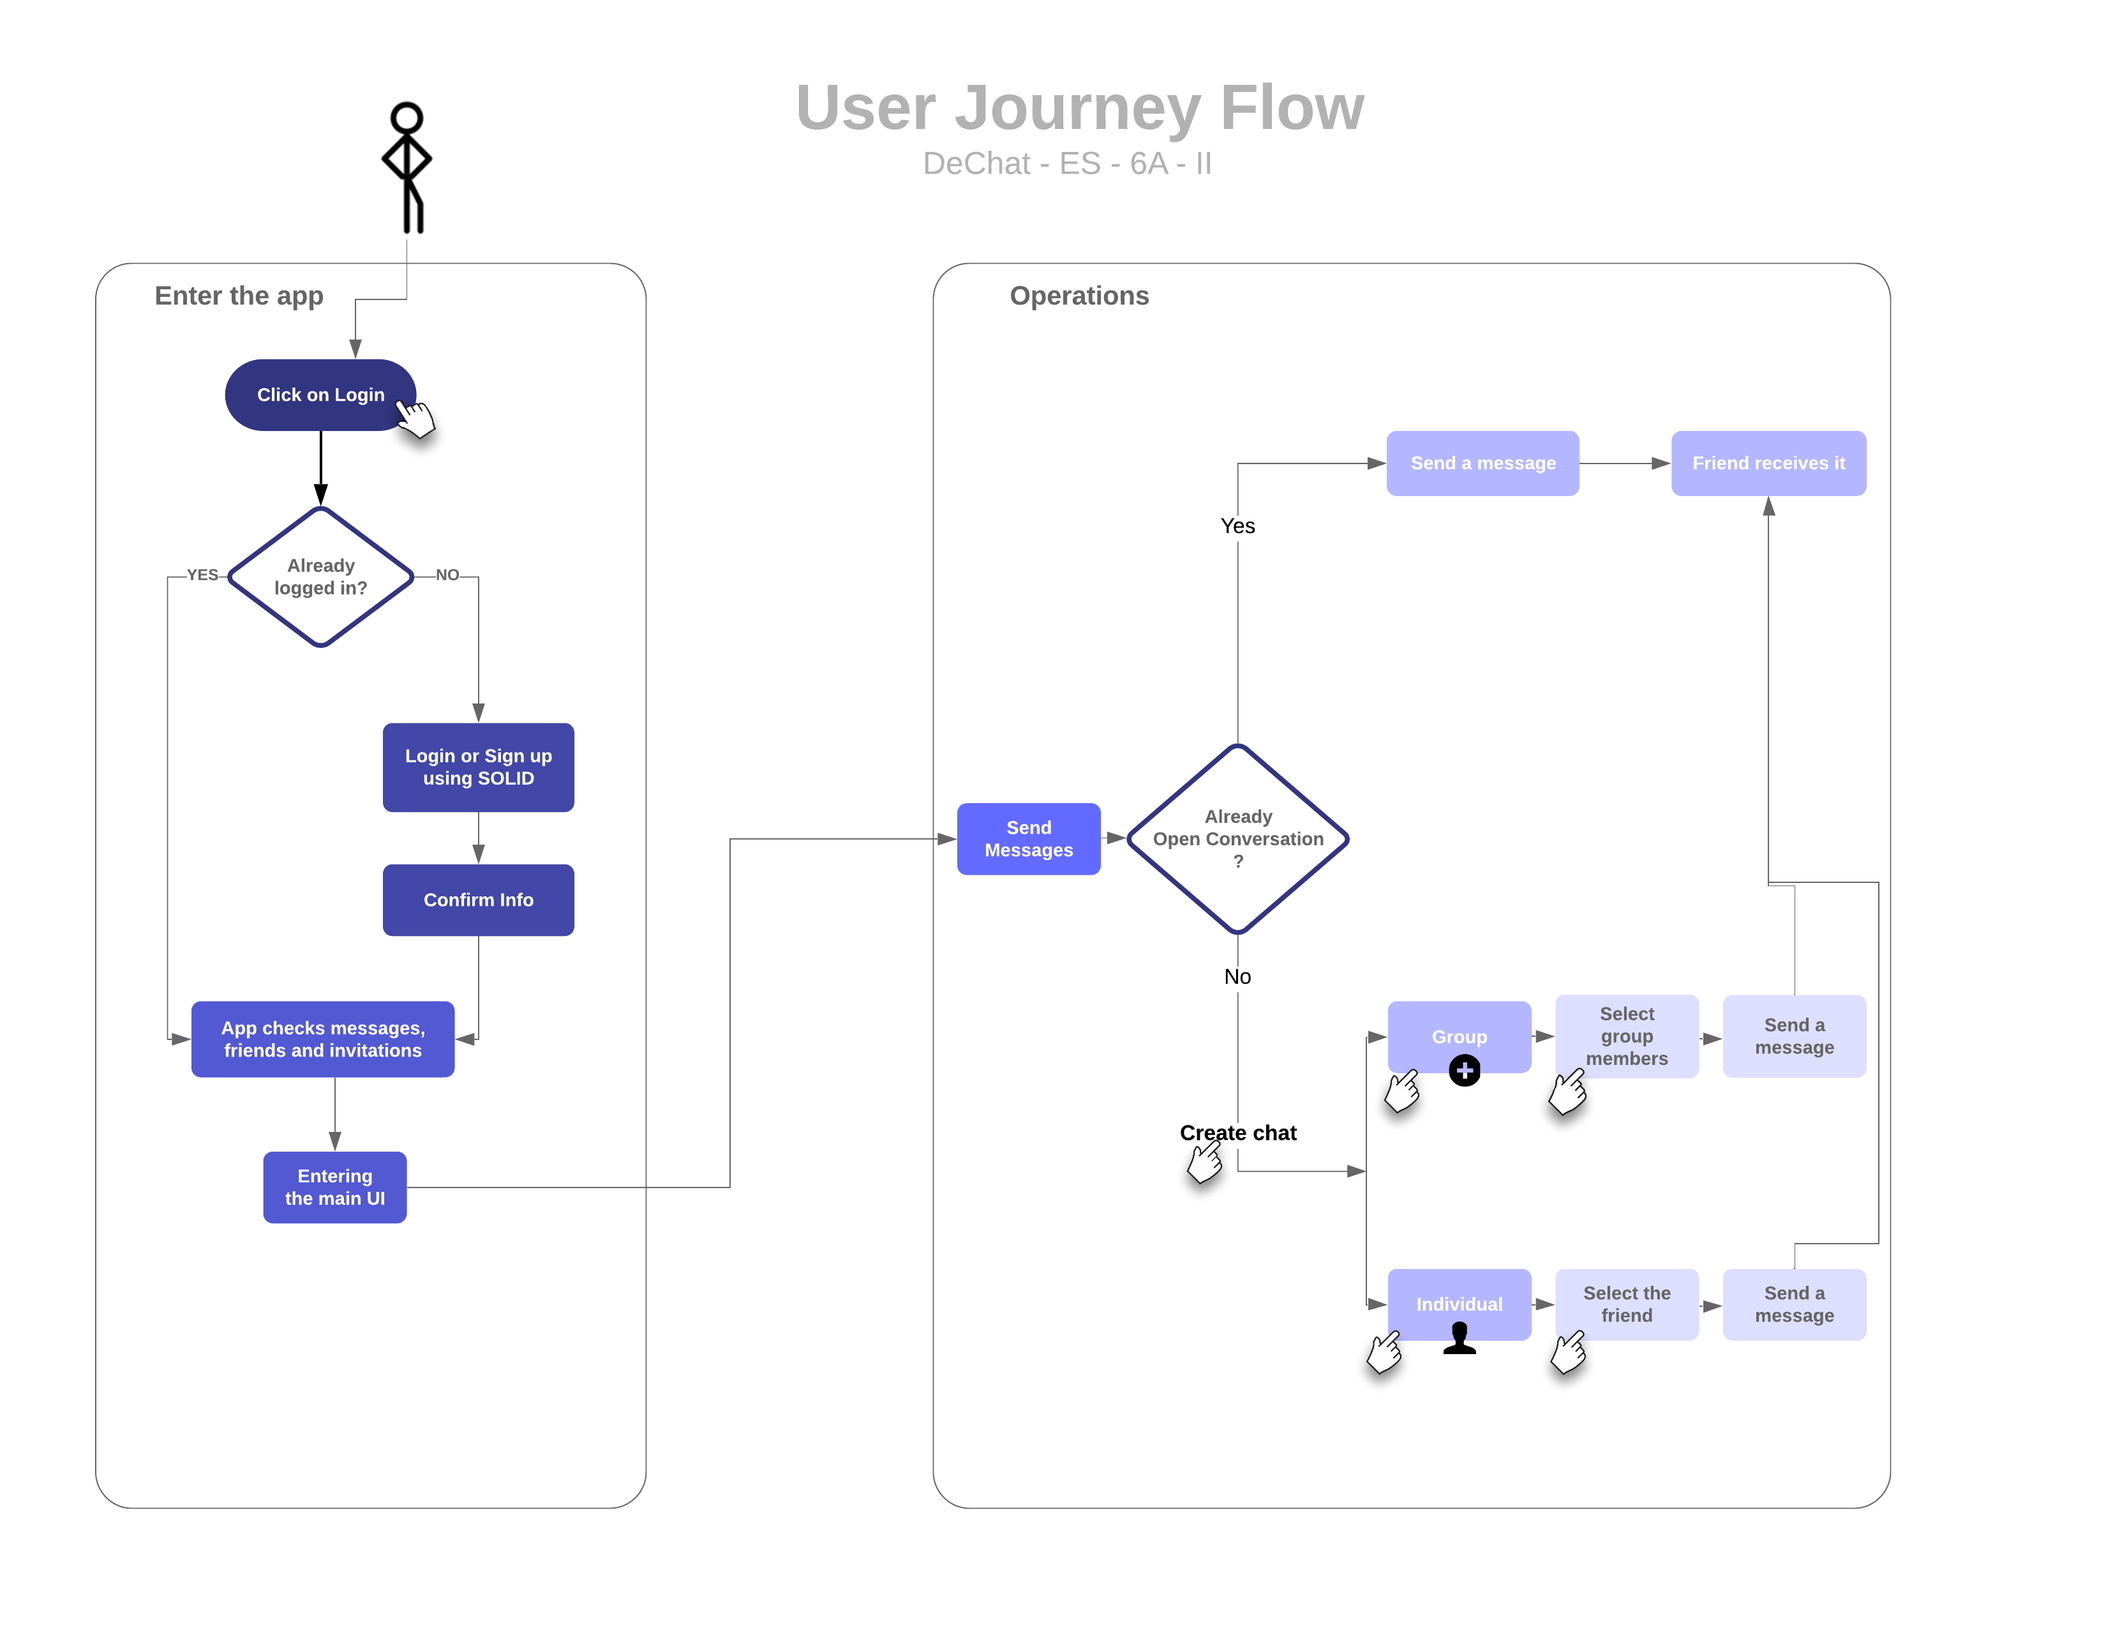
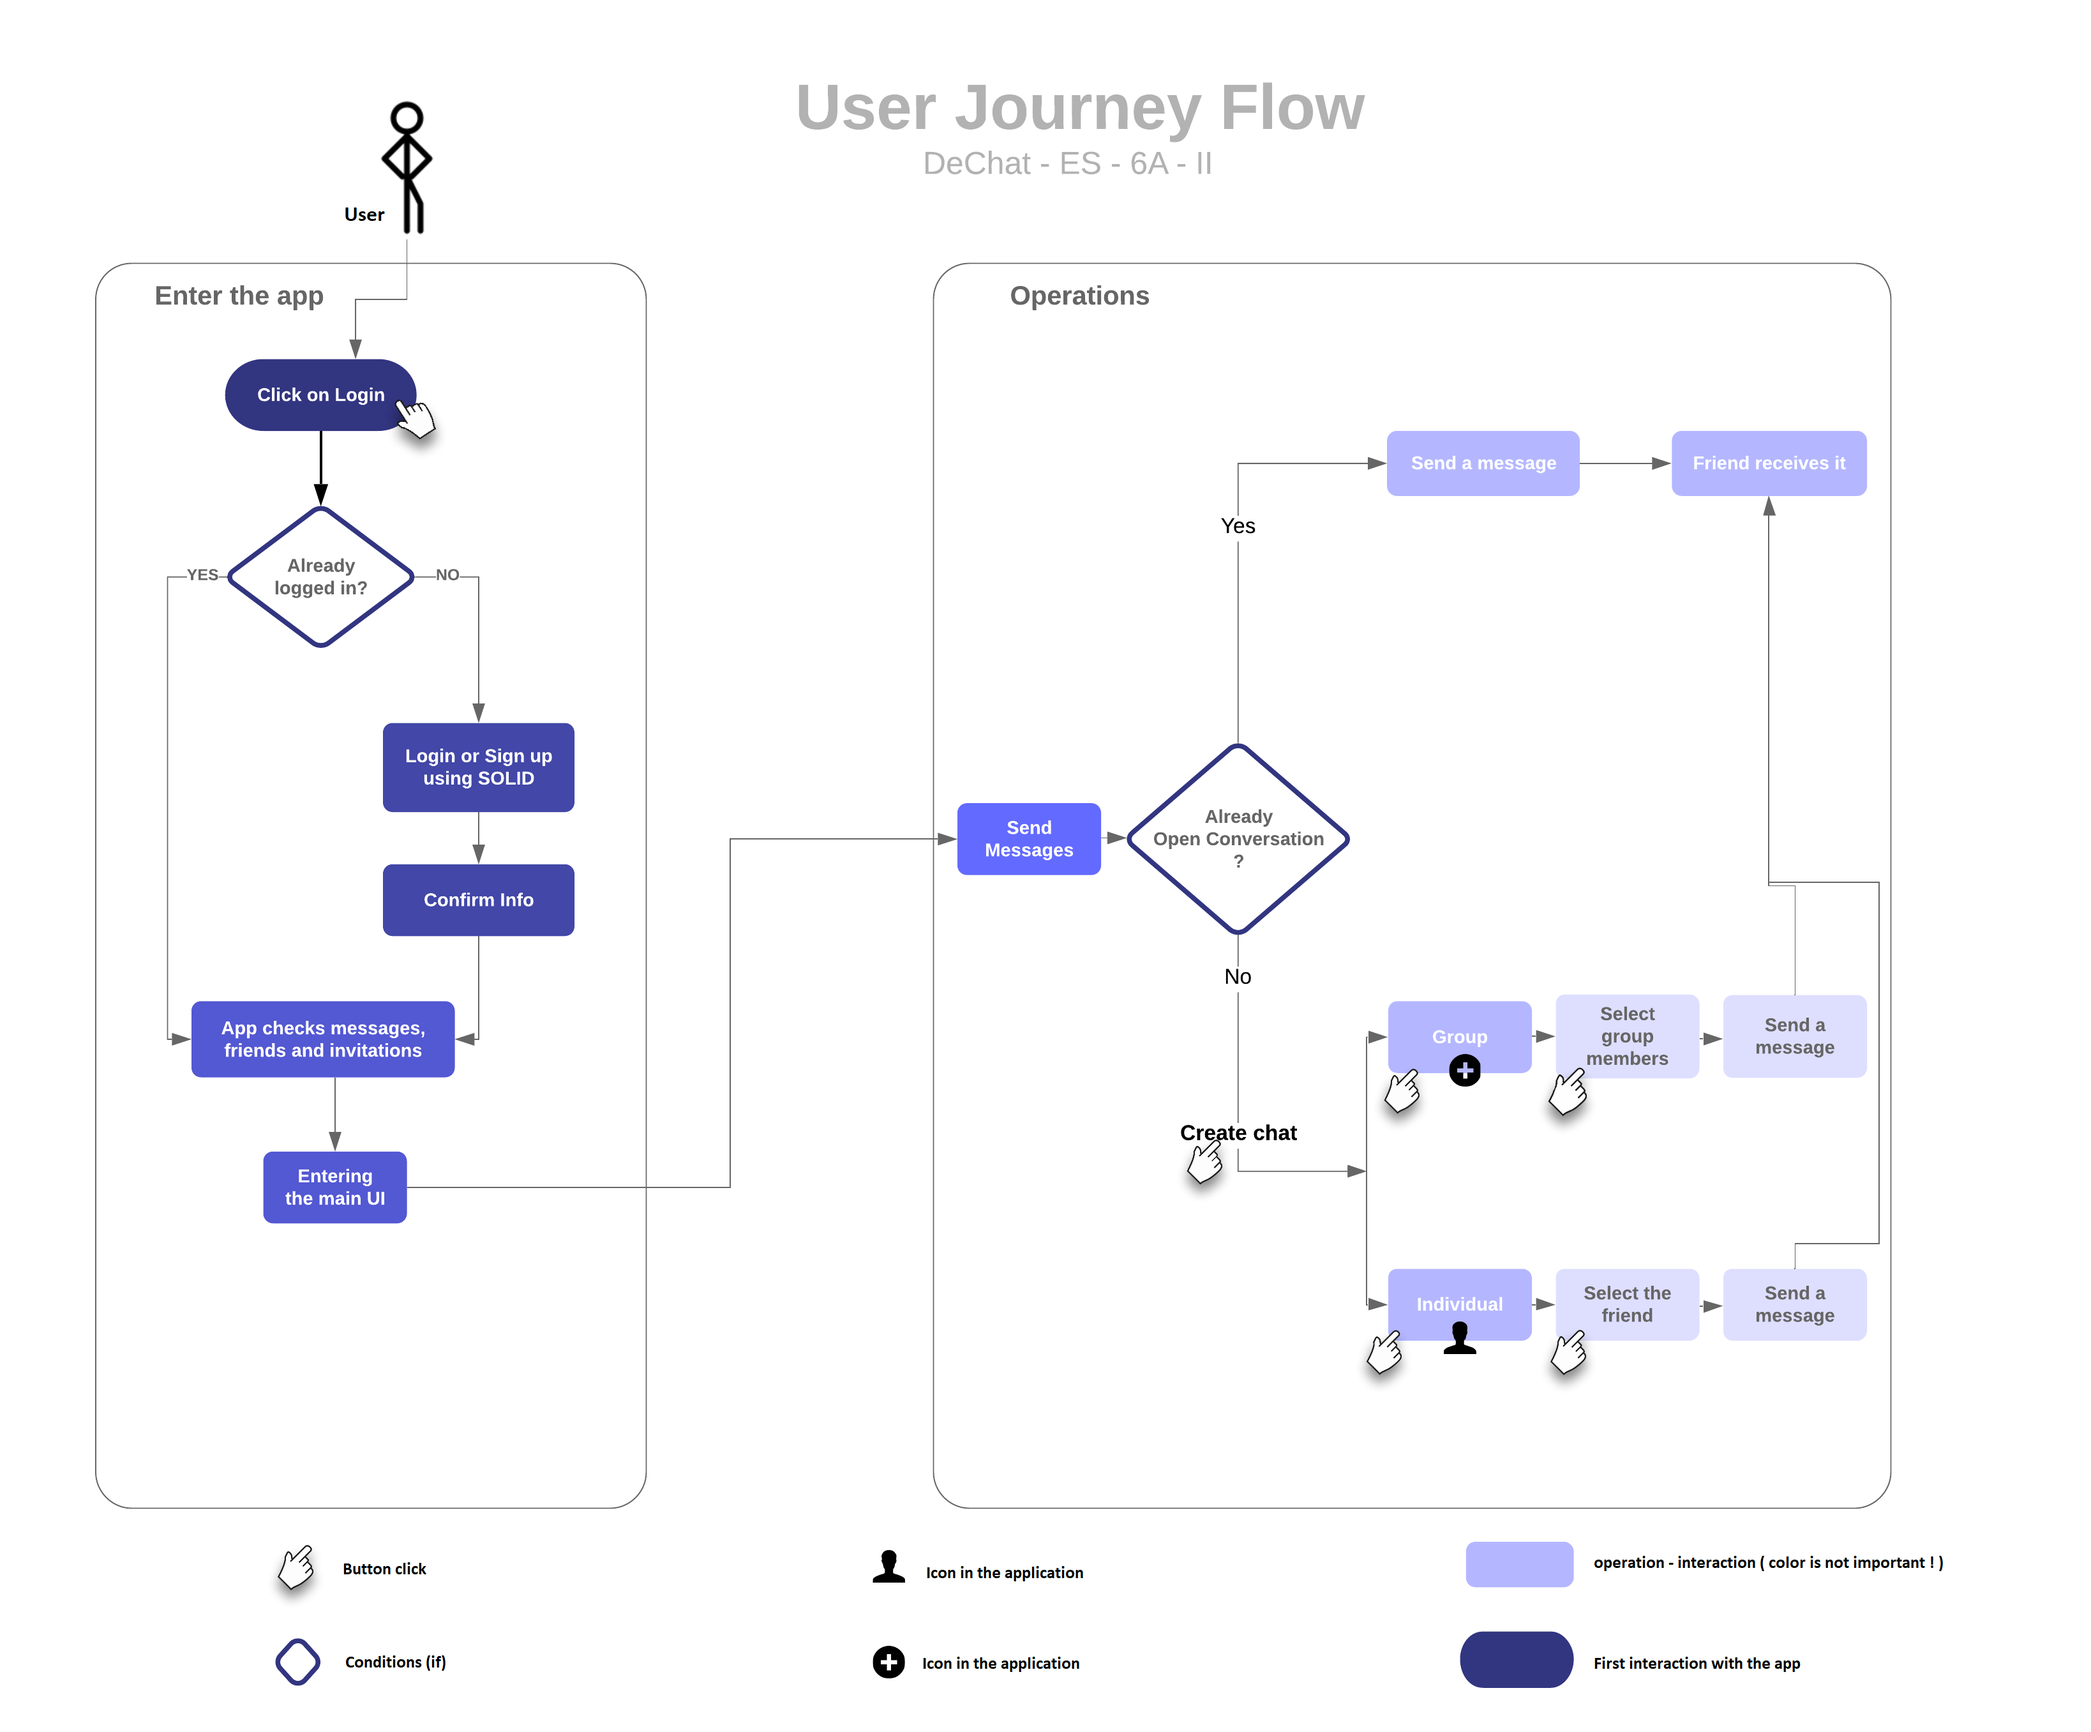
adding legends and deleting useless lines

diff --git a/docs/documentation.html b/docs/documentation.html
@@ -989,22 +989,14 @@ Those being the following:</p>
 <div class="sect1">
 <h2 id="section-runtime-view">6. Runtime View</h2>
 <div class="sectionbody">
-<div class="sidebarblock">
-<div class="content">
-<div class="paragraph">
-<p>In this section, we will describe the behavior and interactions of the system’s
-building blocks in form of scenarios.</p>
-</div>
-</div>
-</div>
 <div class="sect2">
 <h3 id="_scenarios">6.1. Scenarios</h3>
 <div class="sect3">
 <h4 id="_main_scenario_the_users_journey_flow">6.1.1. Main Scenario : the user&#8217;s journey flow.</h4>
 <div class="sect4">
-<h5 id="_user_journey_flowchart">User journey flowchart</h5>
+<h5 id="_user_journey_flowchart">User journey <strong><a href="https://creately.com/blog/diagrams/flowchart-guide-flowchart-tutorial/">Flowchart</a></strong></h5>
 <div class="paragraph">
-<p><span class="image"><img src="https://raw.githubusercontent.com/Arquisoft/dechat_es6a2/master/docs/images/userJourney.png" alt="user journey" width="800"></span></p>
+<p><span class="image"><img src="https://raw.githubusercontent.com/Arquisoft/dechat_es6a2/master/docs/images/userJourney.png" alt="user journey" width="950"></span></p>
 </div>
 </div>
 <div class="sect4">
@@ -1538,8 +1530,7 @@ so it took us a few days to learn how to use it with <strong><em>Node</em></stro
 <div class="sect3">
 <h4 id="_deployment">11.2.5. Deployment</h4>
 <div class="paragraph">
-<p>We have never used <strong>Docker</strong>. Thus, in these few remaining weeks, we will learn about it and use it
-to deploy our chat web application.</p>
+<p>We were gonna use <strong>Docker</strong> to deploy our app, but ,at the end, we decided to use <strong>gh-pages</strong> for simplicity.</p>
 </div>
 <div style="page-break-after: always;"></div>
 </div>
